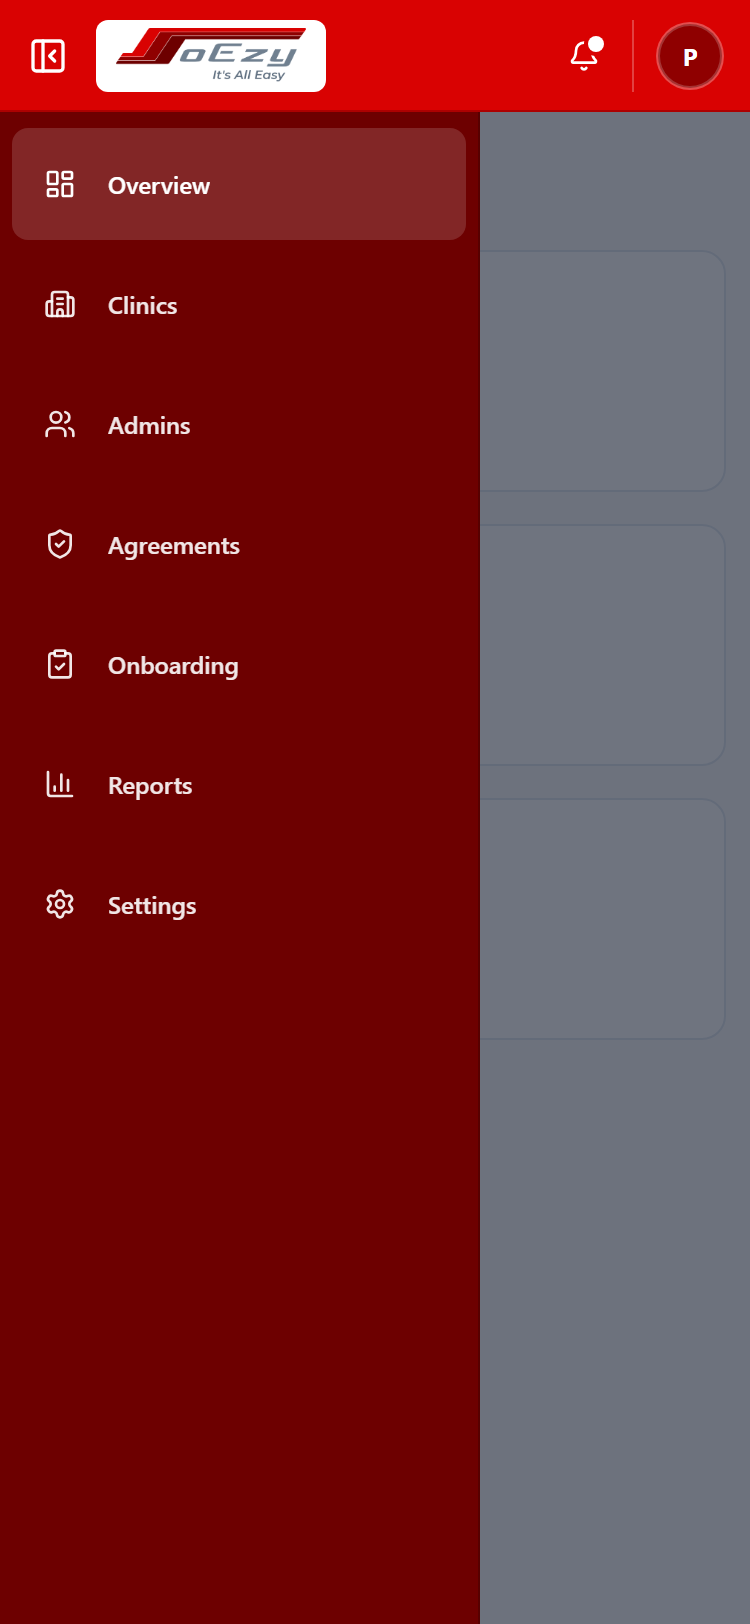
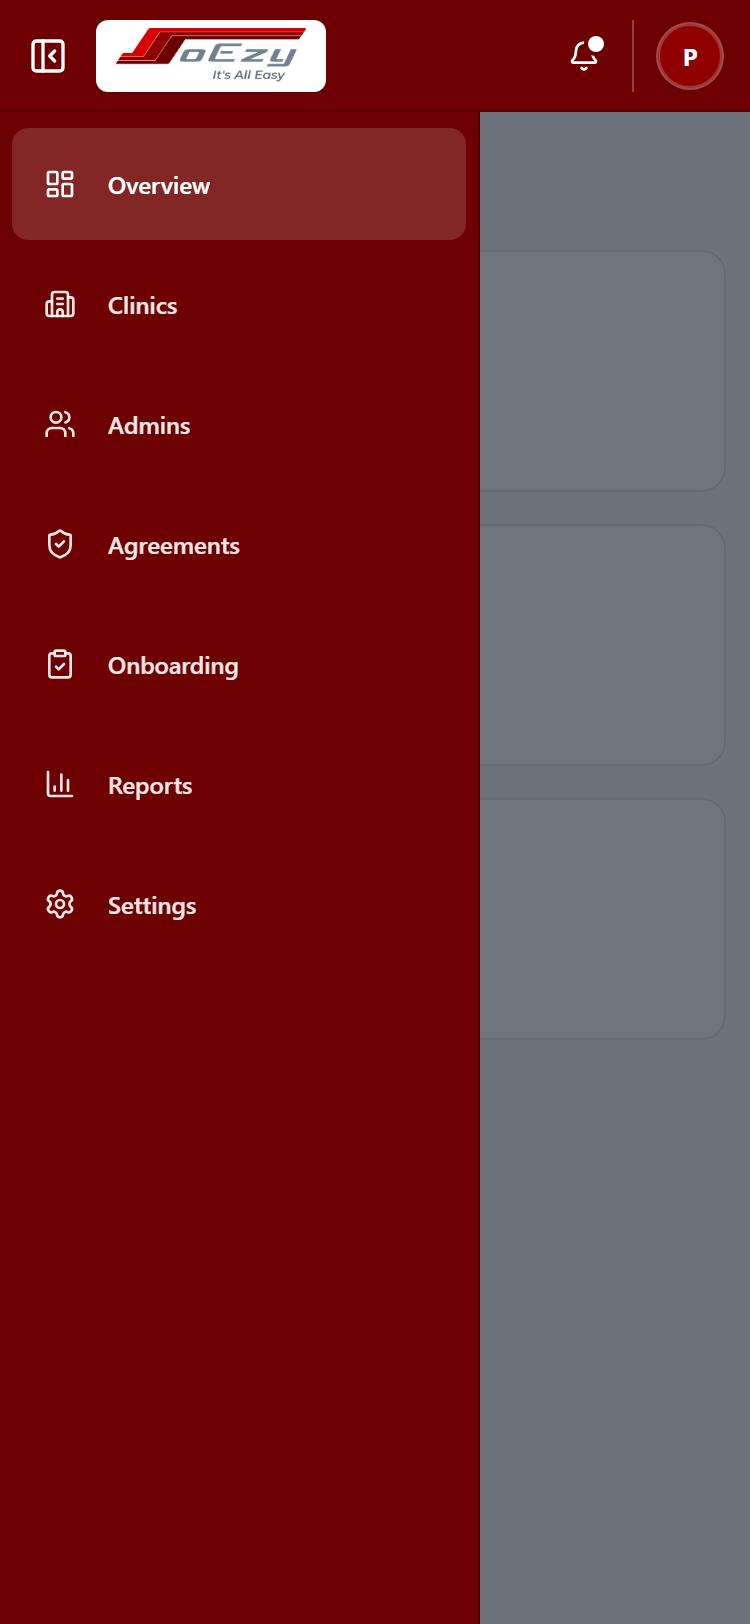
feat(superadmin): sync top navigation bar with deep red sidebar token

Changed region(s): [[0.0, 0.0, 1.0, 0.0924]]

diff --git a/tests/superAdminThemeNavigation.test.tsx b/tests/superAdminThemeNavigation.test.tsx
@@ -82,32 +82,36 @@ describe('Super Admin Three Red Shades Navigation & Theme Tokens', () => {
     const tailwindPath = path.resolve(process.cwd(), 'tailwind.config.js');
     const tailwindContent = fs.readFileSync(tailwindPath, 'utf-8');
 
-    it('defines the three exact logo red hex tokens in src/index.css', () => {
+    it('defines the shared logo red hex tokens in src/index.css syncing topbar with sidebar', () => {
       // First red: darkest shade for left sidebar background (#6d0000)
       expect(cssContent).toMatch(/--superadmin-sidebar-bg:\s*#6d0000;/);
 
       // Second red: middle shade for circular profile avatar background (#8f0000)
       expect(cssContent).toMatch(/--superadmin-avatar-bg:\s*#8f0000;/);
 
-      // Third red: brighter shade for full-width top navigation bar background (#d90202)
-      expect(cssContent).toMatch(/--superadmin-topbar-bg:\s*#d90202;/);
+      // Top navigation bar reuses existing sidebar color token to stay in sync
+      expect(cssContent).toMatch(/--superadmin-topbar-bg:\s*var\(--superadmin-sidebar-bg\);/);
     });
 
     it('configures shared theme tokens scoped to Super Admin in tailwind.config.js', () => {
       expect(tailwindContent).toContain("sidebar: 'var(--superadmin-sidebar-bg)'");
       expect(tailwindContent).toContain("avatar: 'var(--superadmin-avatar-bg)'");
-      expect(tailwindContent).toContain("topbar: 'var(--superadmin-topbar-bg)'");
+      expect(tailwindContent).toContain("topbar: 'var(--superadmin-sidebar-bg)'");
     });
   });
 
-  describe('2. Top Navigation Bar (Third red #d90202, white backplate logo, avatar in second red #8f0000)', () => {
-    it('renders full-width top navigation bar with brighter red background and white text', () => {
+  describe('2. Top Navigation Bar (Shared deep red #6d0000 with sidebar, white backplate logo, avatar in ruby red #8f0000)', () => {
+    it('renders full-width top navigation bar with deep red background sharing sidebar color token and white text', () => {
       renderSuperAdminApp();
 
       const header = document.getElementById('headerdiv');
       expect(header).toBeTruthy();
-      expect(header?.className).toContain('bg-[var(--superadmin-topbar-bg)]');
+      expect(header?.className).toContain('bg-[var(--superadmin-sidebar-bg)]');
       expect(header?.className).toContain('text-white');
+
+      const sidebar = document.getElementById('sidebar-navigation');
+      expect(sidebar).toBeTruthy();
+      expect(sidebar?.className).toContain('bg-[var(--superadmin-sidebar-bg)]');
     });
 
     it('renders original SOEZY logo on a small white backplate', () => {

diff --git a/src/components/layout/Navbar.tsx b/src/components/layout/Navbar.tsx
@@ -154,7 +154,7 @@ export const Navbar: React.FC<NavbarProps> = ({ onToggleSidebar, onNavigate }) =
         id="headerdiv"
         className={`h-[var(--nav-cell)] w-full flex items-center justify-between sticky top-0 z-20 shrink-0 transition-colors pl-2 sm:pl-3 ${
           isSuperAdmin
-            ? 'bg-[var(--superadmin-topbar-bg)] text-white border-b border-black/20'
+            ? 'bg-[var(--superadmin-sidebar-bg)] text-white border-b border-black/20'
             : 'bg-white dark:bg-slate-900 border-b border-slate-200 dark:border-slate-800 text-slate-800 dark:text-slate-100'
         }`}
         style={{
@@ -261,7 +261,7 @@ export const Navbar: React.FC<NavbarProps> = ({ onToggleSidebar, onNavigate }) =
               <Bell className={`w-4 h-4 ${isSuperAdmin ? 'text-white' : ''}`} />
               {totalUnreadCount > 0 && (
                 <span className={`absolute top-1.5 right-1.5 w-2 h-2 rounded-full ring-2 ${
-                  isSuperAdmin ? 'bg-white ring-[var(--superadmin-topbar-bg)]' : 'bg-teal-500 ring-white dark:ring-slate-900'
+                  isSuperAdmin ? 'bg-white ring-[var(--superadmin-sidebar-bg)]' : 'bg-teal-500 ring-white dark:ring-slate-900'
                 }`} />
               )}
             </button>

diff --git a/src/index.css b/src/index.css
@@ -79,7 +79,7 @@ select:focus-visible,
   /* SOEZY Logo Red Theme Tokens Scoped to Super Admin Navigation */
   --superadmin-sidebar-bg: #6d0000;
   --superadmin-avatar-bg: #8f0000;
-  --superadmin-topbar-bg: #d90202;
+  --superadmin-topbar-bg: var(--superadmin-sidebar-bg);
 
   /* Spacing Tokens (Milestone M13) */
   --space-card: var(--card-pad);
@@ -150,7 +150,7 @@ select:focus-visible,
 [data-theme-role="superadmin"] {
   --superadmin-sidebar-bg: #6d0000;
   --superadmin-avatar-bg: #8f0000;
-  --superadmin-topbar-bg: #d90202;
+  --superadmin-topbar-bg: var(--superadmin-sidebar-bg);
 }
 
 @media (min-width: 1280px) {

diff --git a/tailwind.config.js b/tailwind.config.js
@@ -38,7 +38,7 @@ export default {
         superadmin: {
           sidebar: 'var(--superadmin-sidebar-bg)',
           avatar: 'var(--superadmin-avatar-bg)',
-          topbar: 'var(--superadmin-topbar-bg)',
+          topbar: 'var(--superadmin-sidebar-bg)',
         },
         clinic: {
           50: '#f0fdfa',
